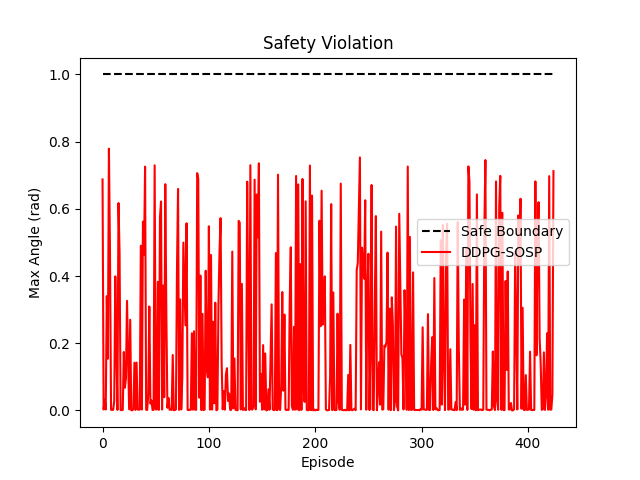
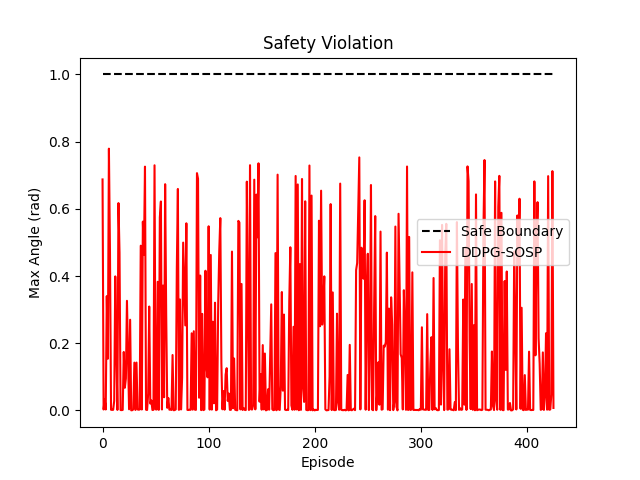
Modify chebyshev and hyperparameters

diff --git a/DDPG-CBF-TF2/ddpg_sos.py b/DDPG-CBF-TF2/ddpg_sos.py
@@ -578,7 +578,7 @@ def train(env: object, args, actor, critic, actor_noise, agent, eng) -> object:
             if el <= 3:  # Update GP model each el except for the last el.
                 dynamics_gp.update_GP_dynamics(agent, path)
 
-        if (i <= 4):
+        if (i <= 50):
             # Update the cbf_bar function.
             agent.bar_comp.get_training_rollouts(paths)
             barr_loss = agent.bar_comp.train()

diff --git a/matlab_code/sos_compute_nosim.m b/matlab_code/sos_compute_nosim.m
@@ -27,8 +27,8 @@ a_rl = u;
 % pvar x1 x2;
 %% System information
 sys.g = 10; sys.gg = [0;1];
-sys.l = 1.; % Real value = 1.0
-sys.m = 1.; % Real value = 1.0
+sys.l = 1.4; % Real value = 1.0
+sys.m = 1.4; % Real value = 1.0
 sys.h_degree = 2; sys.L_au = 6;
 sys.input_limit = 4; u_out = 1;
 % Taylor based equation: taylor(10*sin(x1))
